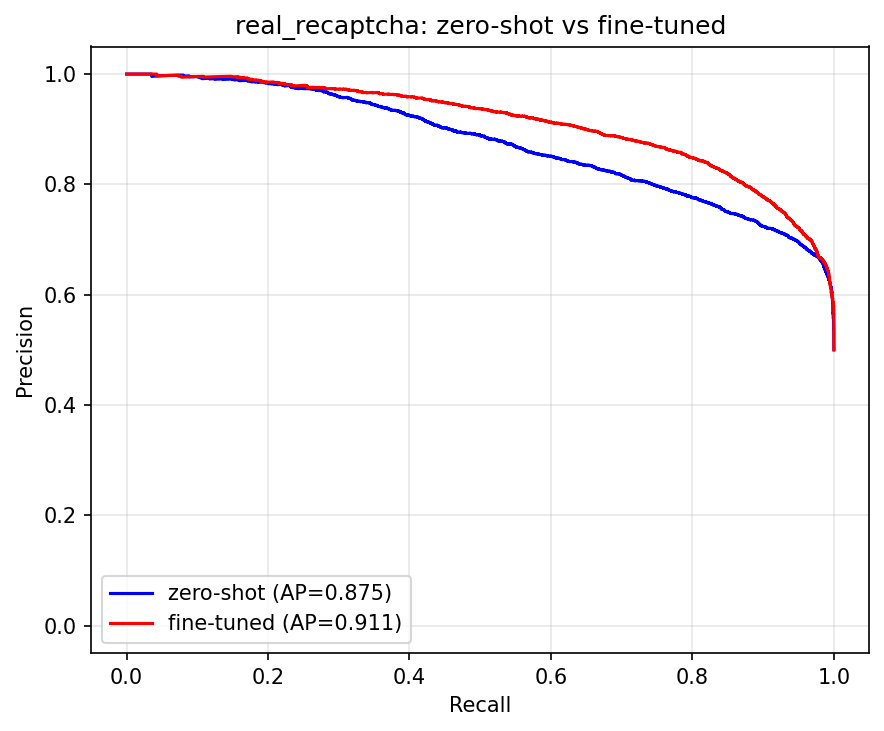
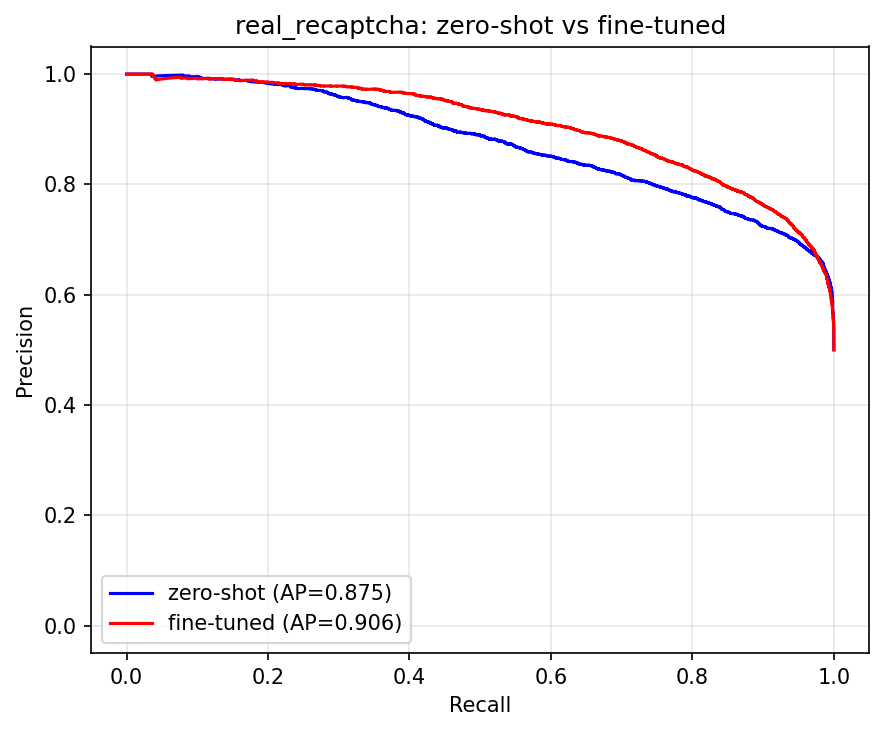
data: 300枚ベースで再学習したモデルの評価結果を更新
学習データ増量後の filter_validity.py / compare_models.py 再実行結果。
FID: new=164.1 で4フィルタ中もっとも本物に近い（妥当）を再確認。
本物 reCAPTCHA での zero-shot vs FT: AP 0.875 → 0.906、maxF1 0.806 → 0.827。

diff --git a/画像分類/eval/results/zeroshot_vs_ft_比較.md b/画像分類/eval/results/zeroshot_vs_ft_比較.md
@@ -8,8 +8,8 @@ bus/other 2クラスに微調整したResNet（fine-tuned）を、
 | データセット | 正例/負例 | zero-shot AP | fine-tuned AP | 差分(FT−ZS) |
 |---|---:|---:|---:|---:|
 | 晴れ (img) | 11/99 | 1.000 | 0.984 | -0.016 |
-| 雨 (img_bus_rain) | 50/52 | 0.978 | 0.946 | -0.032 |
-| 本物 (real_recaptcha) | 6693/6693 | 0.875 | 0.911 | +0.036 |
+| 雨 (img_bus_rain) | 50/52 | 0.978 | 0.943 | -0.035 |
+| 本物 (real_recaptcha) | 6693/6693 | 0.875 | 0.906 | +0.031 |
 
 ## 詳しい指標
 
@@ -20,11 +20,11 @@ AP だけでは見えない実用面の数値も並べる。
 | データセット | モデル | AP | 最大F1 (閾値) | 適合率1.0での再現率 | 再現率1.0での適合率 |
 |---|---|---:|---:|---:|---:|
 | 晴れ (img) | zero-shot | 1.000 | 1.000 (0.034) | 1.000 | 1.000 |
-| 晴れ (img) | fine-tuned | 0.984 | 0.957 (0.906) | 0.818 | 0.917 |
+| 晴れ (img) | fine-tuned | 0.984 | 0.957 (0.984) | 0.818 | 0.917 |
 | 雨 (img_bus_rain) | zero-shot | 0.978 | 0.935 (0.001) | 0.740 | 0.877 |
-| 雨 (img_bus_rain) | fine-tuned | 0.946 | 0.874 (0.249) | 0.500 | 0.685 |
+| 雨 (img_bus_rain) | fine-tuned | 0.943 | 0.882 (0.555) | 0.420 | 0.610 |
 | 本物 (real_recaptcha) | zero-shot | 0.875 | 0.806 (0.003) | 0.036 | 0.561 |
-| 本物 (real_recaptcha) | fine-tuned | 0.911 | 0.836 (0.309) | 0.043 | 0.586 |
+| 本物 (real_recaptcha) | fine-tuned | 0.906 | 0.827 (0.098) | 0.037 | 0.552 |
 
 ## PR曲線
 
